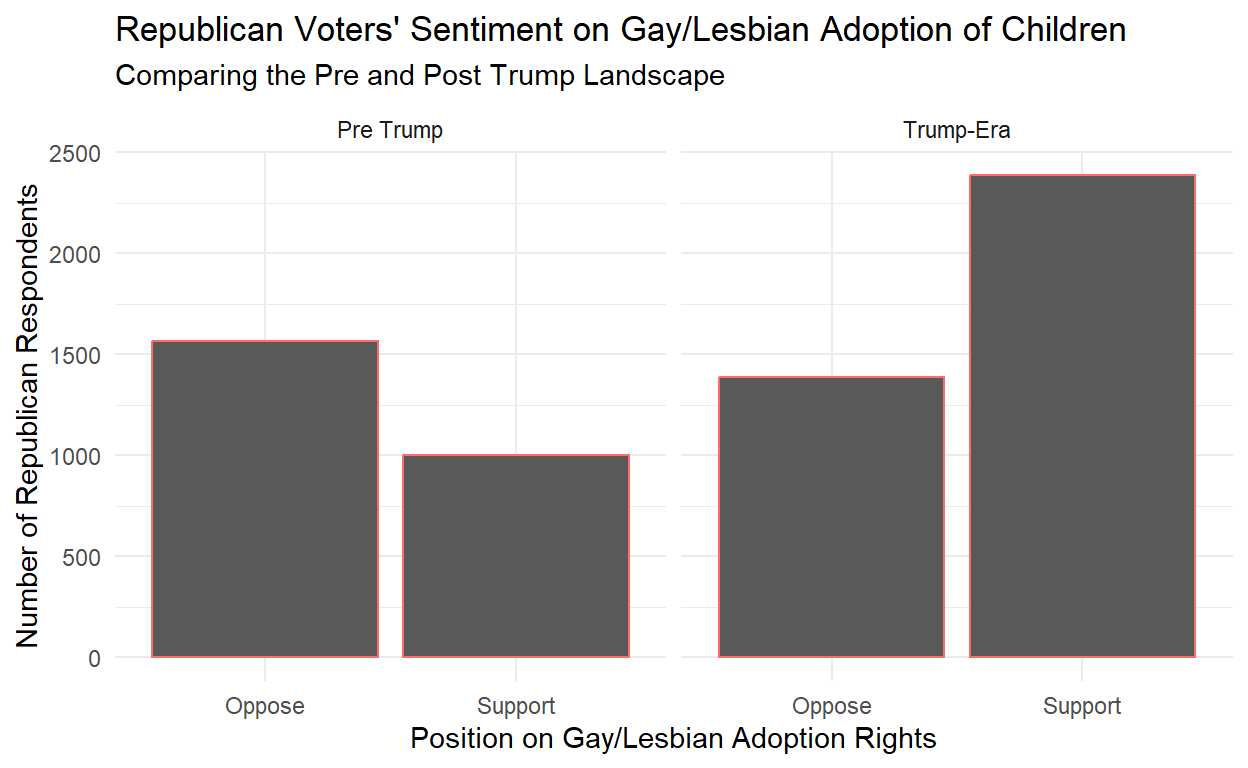
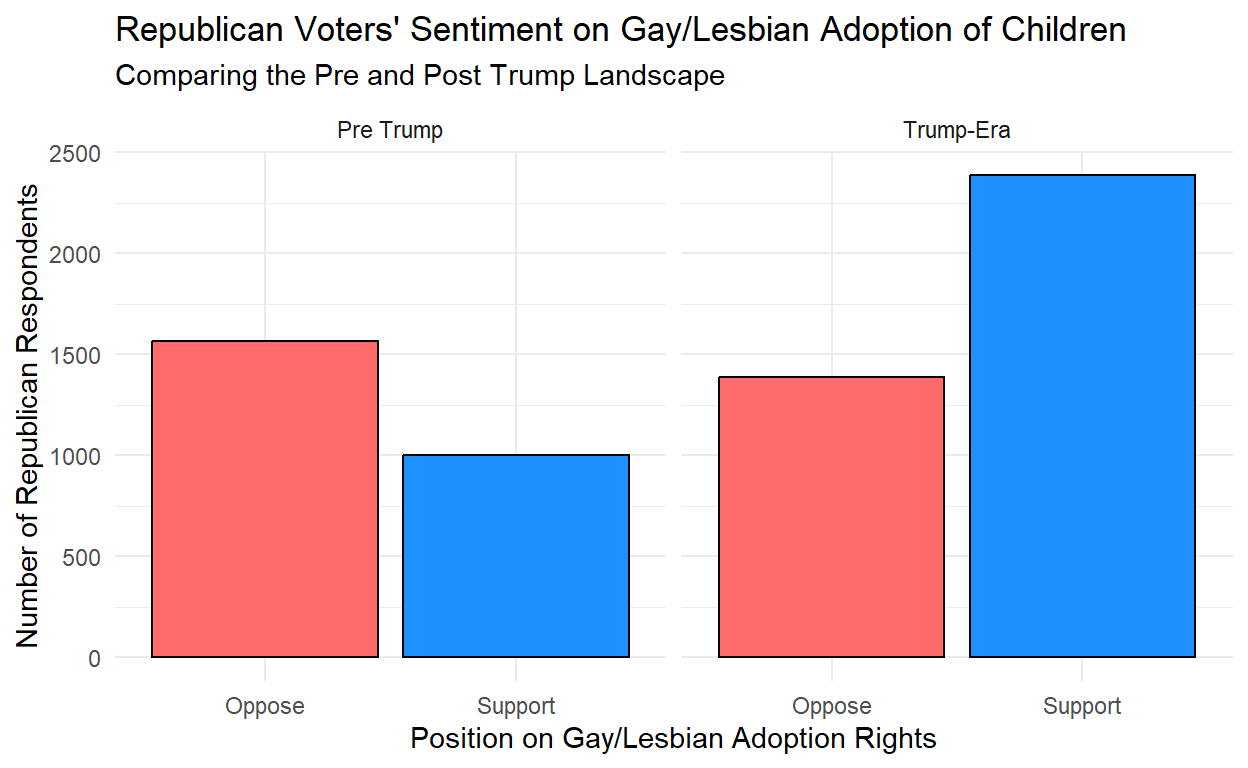
milestone 4 with knit

diff --git a/index.html b/index.html
@@ -18,6 +18,73 @@
  <!--radix_placeholder_import_source-->
  <!--/radix_placeholder_import_source-->
 
+<style type="text/css">code{white-space: pre;}</style>
+<style type="text/css" data-origin="pandoc">
+pre > code.sourceCode { white-space: pre; position: relative; }
+pre > code.sourceCode > span { line-height: 1.25; }
+pre > code.sourceCode > span:empty { height: 1.2em; }
+.sourceCode { overflow: visible; }
+code.sourceCode > span { color: inherit; text-decoration: inherit; }
+div.sourceCode { margin: 1em 0; }
+pre.sourceCode { margin: 0; }
+@media screen {
+div.sourceCode { overflow: auto; }
+}
+@media print {
+pre > code.sourceCode { white-space: pre-wrap; }
+pre > code.sourceCode > span { text-indent: -5em; padding-left: 5em; }
+}
+pre.numberSource code
+  { counter-reset: source-line 0; }
+pre.numberSource code > span
+  { position: relative; left: -4em; counter-increment: source-line; }
+pre.numberSource code > span > a:first-child::before
+  { content: counter(source-line);
+    position: relative; left: -1em; text-align: right; vertical-align: baseline;
+    border: none; display: inline-block;
+    -webkit-touch-callout: none; -webkit-user-select: none;
+    -khtml-user-select: none; -moz-user-select: none;
+    -ms-user-select: none; user-select: none;
+    padding: 0 4px; width: 4em;
+    color: #aaaaaa;
+  }
+pre.numberSource { margin-left: 3em; border-left: 1px solid #aaaaaa;  padding-left: 4px; }
+div.sourceCode
+  { color: #00769e; background-color: #f1f3f5; }
+@media screen {
+pre > code.sourceCode > span > a:first-child::before { text-decoration: underline; }
+}
+code span { color: #00769e; } /* Normal */
+code span.al { color: #ad0000; } /* Alert */
+code span.an { color: #5e5e5e; } /* Annotation */
+code span.at { color: #657422; } /* Attribute */
+code span.bn { color: #ad0000; } /* BaseN */
+code span.bu { } /* BuiltIn */
+code span.cf { color: #00769e; } /* ControlFlow */
+code span.ch { color: #20794d; } /* Char */
+code span.cn { color: #8f5902; } /* Constant */
+code span.co { color: #5e5e5e; } /* Comment */
+code span.cv { color: #5e5e5e; font-style: italic; } /* CommentVar */
+code span.do { color: #5e5e5e; font-style: italic; } /* Documentation */
+code span.dt { color: #ad0000; } /* DataType */
+code span.dv { color: #ad0000; } /* DecVal */
+code span.er { color: #ad0000; } /* Error */
+code span.ex { } /* Extension */
+code span.fl { color: #ad0000; } /* Float */
+code span.fu { color: #4758ab; } /* Function */
+code span.im { } /* Import */
+code span.in { color: #5e5e5e; } /* Information */
+code span.kw { color: #00769e; } /* Keyword */
+code span.op { color: #5e5e5e; } /* Operator */
+code span.ot { color: #00769e; } /* Other */
+code span.pp { color: #ad0000; } /* Preprocessor */
+code span.sc { color: #5e5e5e; } /* SpecialChar */
+code span.ss { color: #20794d; } /* SpecialString */
+code span.st { color: #20794d; } /* String */
+code span.va { color: #111111; } /* Variable */
+code span.vs { color: #20794d; } /* VerbatimString */
+code span.wa { color: #5e5e5e; font-style: italic; } /* Warning */
+</style>
 
 
   <!--radix_placeholder_meta_tags-->
@@ -1520,20 +1587,73 @@
 <h2 id="visualization">Visualization</h2>
 <div class="layout-chunk" data-layout="l-body">
 <div class="sourceCode">
-<pre class="sourceCode r"><code class="sourceCode r"><span><span class='fu'><a href='https://ggplot2.tidyverse.org/reference/ggplot.html'>ggplot</a></span><span class='op'>(</span><span class='va'>anes_republican</span>, <span class='fu'><a href='https://ggplot2.tidyverse.org/reference/aes.html'>aes</a></span><span class='op'>(</span> x <span class='op'>=</span> <span class='va'>Gay_Adopt</span><span class='op'>)</span><span class='op'>)</span> <span class='op'>+</span></span>
-<span>  <span class='fu'><a href='https://ggplot2.tidyverse.org/reference/geom_bar.html'>geom_bar</a></span><span class='op'>(</span>color <span class='op'>=</span> <span class='st'>"indianred1"</span><span class='op'>)</span> <span class='op'>+</span></span>
+<pre class="sourceCode r"><code class="sourceCode r"><span><span class='fu'><a href='https://ggplot2.tidyverse.org/reference/ggplot.html'>ggplot</a></span><span class='op'>(</span><span class='va'>anes_republican</span>, <span class='fu'><a href='https://ggplot2.tidyverse.org/reference/aes.html'>aes</a></span><span class='op'>(</span> x <span class='op'>=</span> <span class='va'>Gay_Adopt</span>, fill <span class='op'>=</span> <span class='va'>Gay_Adopt</span><span class='op'>)</span><span class='op'>)</span> <span class='op'>+</span></span>
+<span>  <span class='fu'><a href='https://ggplot2.tidyverse.org/reference/geom_bar.html'>geom_bar</a></span><span class='op'>(</span>color <span class='op'>=</span> <span class='st'>"black"</span><span class='op'>)</span> <span class='op'>+</span></span>
 <span>  <span class='fu'><a href='https://ggplot2.tidyverse.org/reference/facet_wrap.html'>facet_wrap</a></span><span class='op'>(</span><span class='op'>~</span><span class='va'>Era</span><span class='op'>)</span> <span class='op'>+</span></span>
+<span>  <span class='co'>#Separate colors for oppose and support</span></span>
+<span>  <span class='fu'><a href='https://ggplot2.tidyverse.org/reference/scale_manual.html'>scale_fill_manual</a></span><span class='op'>(</span>values <span class='op'>=</span> <span class='fu'><a href='https://rdrr.io/r/base/c.html'>c</a></span><span class='op'>(</span><span class='st'>"Oppose"</span> <span class='op'>=</span> <span class='st'>"indianred1"</span>, <span class='st'>"Support"</span> <span class='op'>=</span> <span class='st'>"dodgerblue"</span><span class='op'>)</span><span class='op'>)</span><span class='op'>+</span></span>
 <span>  <span class='fu'><a href='https://ggplot2.tidyverse.org/reference/labs.html'>labs</a></span><span class='op'>(</span></span>
 <span>    title <span class='op'>=</span> <span class='st'>"Republican Voters' Sentiment on Gay/Lesbian Adoption of Children"</span>,</span>
 <span>    subtitle <span class='op'>=</span> <span class='st'>"Comparing the Pre and Post Trump Landscape"</span>,</span>
 <span>    x <span class='op'>=</span> <span class='st'>"Position on Gay/Lesbian Adoption Rights"</span>,</span>
 <span>    y <span class='op'>=</span> <span class='st'>"Number of Republican Respondents"</span></span>
 <span>  <span class='op'>)</span> <span class='op'>+</span></span>
-<span>  <span class='fu'><a href='https://ggplot2.tidyverse.org/reference/ggtheme.html'>theme_minimal</a></span><span class='op'>(</span><span class='op'>)</span></span></code></pre>
+<span>  <span class='fu'><a href='https://ggplot2.tidyverse.org/reference/ggtheme.html'>theme_minimal</a></span><span class='op'>(</span><span class='op'>)</span> <span class='op'>+</span></span>
+<span>  <span class='co'>#remove legend</span></span>
+<span>  <span class='fu'><a href='https://ggplot2.tidyverse.org/reference/theme.html'>theme</a></span><span class='op'>(</span>legend.position <span class='op'>=</span> <span class='st'>"none"</span><span class='op'>)</span></span></code></pre>
 </div>
 <p><img src="index_files/figure-html5/unnamed-chunk-3-1.png" width="624" /></p>
 </div>
-<pre><code>```{.r .distill-force-highlighting-css}</code></pre>
+<p>Source: American National Election Survey (ANES)</p>
+<h2 id="milestone-4-second-visualizationtable">Milestone 4 – Second Visualization/Table</h2>
+<div class="layout-chunk" data-layout="l-body">
+<div class="sourceCode">
+<pre class="sourceCode r"><code class="sourceCode r"><span><span class='kw'><a href='https://rdrr.io/r/base/library.html'>library</a></span><span class='op'>(</span><span class='va'><a href='https://yihui.org/knitr/'>knitr</a></span><span class='op'>)</span></span>
+<span><span class='va'>sum_up_table</span> <span class='op'>&lt;-</span> <span class='va'>anes_republican</span> <span class='op'>|&gt;</span></span>
+<span>  <span class='fu'><a href='https://dplyr.tidyverse.org/reference/group_by.html'>group_by</a></span><span class='op'>(</span><span class='va'>Era</span>, <span class='va'>Gay_Adopt</span><span class='op'>)</span> <span class='op'>|&gt;</span></span>
+<span>  <span class='fu'><a href='https://dplyr.tidyverse.org/reference/summarise.html'>summarize</a></span><span class='op'>(</span>Count <span class='op'>=</span> <span class='fu'><a href='https://dplyr.tidyverse.org/reference/context.html'>n</a></span><span class='op'>(</span><span class='op'>)</span><span class='op'>)</span></span>
+<span><span class='fu'><a href='https://rdrr.io/pkg/knitr/man/kable.html'>kable</a></span><span class='op'>(</span><span class='va'>sum_up_table</span>, col.names <span class='op'>=</span> <span class='fu'><a href='https://rdrr.io/r/base/c.html'>c</a></span><span class='op'>(</span><span class='st'>"Era"</span>, <span class='st'>"Position on LGBT+ Adoption of Children"</span>, <span class='st'>"Number of Respondents"</span><span class='op'>)</span>,</span>
+<span>      caption <span class='op'>=</span> <span class='st'>"Pre and Post-Trump Sentiment on LGBT Child Adoption"</span><span class='op'>)</span></span></code></pre>
+</div>
+<table>
+<caption><span id="tab:unnamed-chunk-4">Table 1: </span>Pre and Post-Trump Sentiment on LGBT Child Adoption</caption>
+<colgroup>
+<col style="width: 14%" />
+<col style="width: 54%" />
+<col style="width: 30%" />
+</colgroup>
+<thead>
+<tr class="header">
+<th style="text-align: left;">Era</th>
+<th style="text-align: left;">Position on LGBT+ Adoption of Children</th>
+<th style="text-align: right;">Number of Respondents</th>
+</tr>
+</thead>
+<tbody>
+<tr class="odd">
+<td style="text-align: left;">Pre Trump</td>
+<td style="text-align: left;">Oppose</td>
+<td style="text-align: right;">1564</td>
+</tr>
+<tr class="even">
+<td style="text-align: left;">Pre Trump</td>
+<td style="text-align: left;">Support</td>
+<td style="text-align: right;">1001</td>
+</tr>
+<tr class="odd">
+<td style="text-align: left;">Trump-Era</td>
+<td style="text-align: left;">Oppose</td>
+<td style="text-align: right;">1389</td>
+</tr>
+<tr class="even">
+<td style="text-align: left;">Trump-Era</td>
+<td style="text-align: left;">Support</td>
+<td style="text-align: right;">2389</td>
+</tr>
+</tbody>
+</table>
+</div>
+<div class="sourceCode" id="cb1"><pre class="sourceCode r distill-force-highlighting-css"><code class="sourceCode r"></code></pre></div>
 <!--radix_placeholder_article_footer-->
 <!--/radix_placeholder_article_footer-->
 </div>
